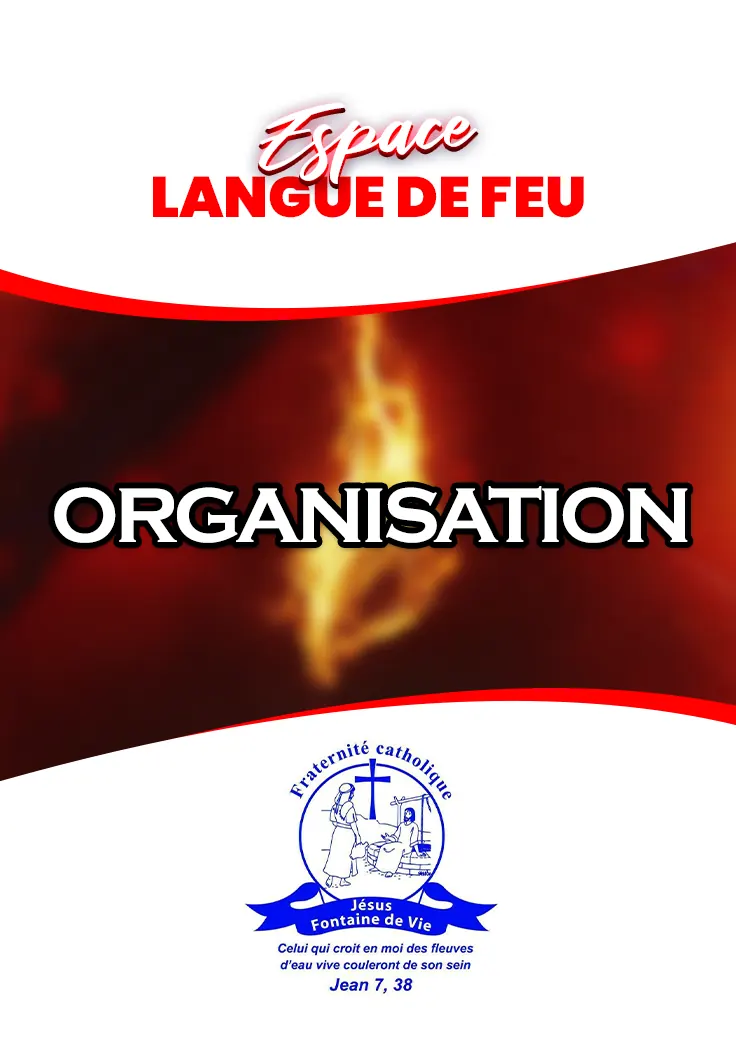
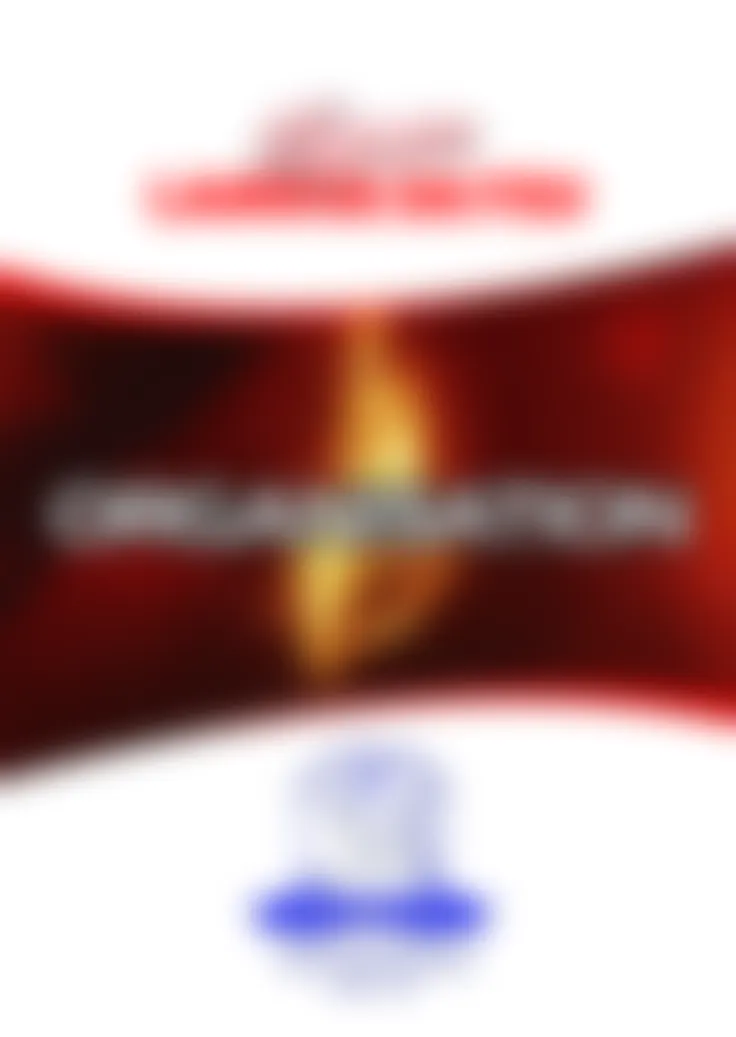
Galerie graphisme entièrement floutée, captures des projets web
- Floute l'intégralité des 15 visuels de la galerie Identité visuelle
- Ajoute les captures de Jisproject, TOPTEO Relay et Farmaceo dans
  leurs cartes projet (nom d'utilisateur flouté sur Farmaceo)
- Visionneuse en délégation d'événements pour les cartes générées en JS

Changed region(s): [[0.0, 0.0926, 1.0, 0.9566]]

diff --git a/index.html b/index.html
@@ -752,6 +752,18 @@
       transform: translateY(-2px)
     }
 
+    .proj-shot {
+      aspect-ratio: 16/9;
+      border-radius: 12px;
+      margin: -8px -8px 2px;
+      width: calc(100% + 16px);
+      border: 1px solid var(--line)
+    }
+
+    .proj-shot img {
+      object-position: 50% 0
+    }
+
     .proj-top {
       display: flex;
       justify-content: space-between;
@@ -2130,7 +2142,7 @@
         <button class="shot" type="button" data-lb="gfx" data-src="img/graphisme/langue-de-feu-organisation.webp" data-cap="Espace Langue de Feu · panneau Organisation"><img
             src="img/graphisme/langue-de-feu-organisation-min.webp" alt="Panneau Organisation de l'Espace Langue de Feu" loading="lazy"></button>
       </div>
-      <p class="gfx-note">Coordonnées et noms de personnes floutés par confidentialité.</p>
+      <p class="gfx-note">Visuels floutés par confidentialité : aperçu de la mise en page et des couleurs.</p>
     </div>
   </section>
 
@@ -2485,11 +2497,11 @@
       // Lightbox
       var lb = document.getElementById('lb'), lbImg = document.getElementById('lbImg'), lbCap = document.getElementById('lbCap'), group = [], idx = 0, opener = null;
       function show() { var b = group[idx]; lbImg.src = b.getAttribute('data-src'); lbImg.alt = b.querySelector('img').alt; lbCap.textContent = b.getAttribute('data-cap') + '  ·  ' + (idx + 1) + ' / ' + group.length; }
-      document.querySelectorAll('[data-lb]').forEach(function (b) {
-        b.addEventListener('click', function () { opener = b; group = [].slice.call(document.querySelectorAll('[data-lb="' + b.getAttribute('data-lb') + '"]')); idx = group.indexOf(b); show(); lb.hidden = false; document.getElementById('lbX').focus(); });
+      document.addEventListener('click', function (e) {
+        var b = e.target.closest('[data-lb]'); if (!b) return;
+        opener = b; group = [].slice.call(document.querySelectorAll('[data-lb="' + b.getAttribute('data-lb') + '"]')); idx = group.indexOf(b); show(); lb.hidden = false; document.body.style.overflow = 'hidden'; document.getElementById('lbX').focus();
       });
       function close() { lb.hidden = true; document.body.style.overflow = ''; if (opener) opener.focus(); }
-      document.querySelectorAll('[data-lb]').forEach(function (b) { b.addEventListener('click', function () { document.body.style.overflow = 'hidden'; }); });
       // Swipe between photos on touch screens
       var tx = null;
       lb.addEventListener('touchstart', function (e) { tx = e.touches[0].clientX; }, { passive: true });
@@ -2528,14 +2540,14 @@
 
       // Projects
       var projects = [
+        { n: 'Jisproject', c: 'Gestion', d: 'Plateforme de gestion de projet sur mesure : planification, suivi et pilotage jusqu\'à la livraison.', t: ['PHP', 'MySQL', 'AJAX'], o: 'TEO Group', img: 'jisproject', cap: 'Jisproject · vue Gantt de l\'activité', capEN: 'Jisproject · activity Gantt view' },
+        { n: 'TOPTEO Relay', c: 'Logistique', d: 'Site d\'expédition de colis de la France vers l\'Afrique francophone, avec suivi et traçabilité.', t: ['PHP', 'JavaScript', 'SQL'], o: 'TEO Group', img: 'topteo-relay', cap: 'TOPTEO Relay · formulaire d\'envoi de colis', capEN: 'TOPTEO Relay · parcel shipping form' },
+        { n: 'Farmaceo', c: 'Santé', d: 'Site conforme aux normes ANSM pour la gestion du stockage de produits pharmaceutiques, sur mobile, tablette et PC.', t: ['PHP', 'Responsive', 'SQL'], o: 'TEO Group', img: 'farmaceo', cap: 'Farmaceo · espace de gestion', capEN: 'Farmaceo · management area' },
         { n: 'WebCRM', c: 'Gestion', d: 'CRM pour suivre prospects et clients, avec un parcours de conversion du prospect au client.', t: ['PHP', 'SQL', 'JavaScript'], o: 'TEO Group' },
-        { n: 'Jisproject', c: 'Gestion', d: 'Plateforme de gestion de projet sur mesure : planification, suivi et pilotage jusqu\'à la livraison.', t: ['PHP', 'MySQL', 'AJAX'], o: 'TEO Group' },
         { n: 'Support · Ticket Dev', c: 'Outils internes', d: 'Gestion des demandes utilisateurs avec classement par urgence et catégorie, suivi et validation par superviseurs.', t: ['PHP', 'SQL', 'JavaScript'], o: 'TEO Group' },
         { n: 'Recrute RH (TLMS)', c: 'Outils internes', d: 'Application interne de recrutement : offres d\'emploi, candidatures et sélection des profils.', t: ['PHP', 'MySQL'], o: 'TRANSPORTEO International' },
         { n: 'AdminMailer', c: 'Outils internes', d: 'Administration multilingue et multi-utilisateurs des comptes e-mail d\'un serveur Linux.', t: ['PHP', 'Linux', 'SQL'], o: 'TEO Group' },
-        { n: 'TOPTEO Relay', c: 'Logistique', d: 'Site d\'expédition de colis de la France vers l\'Afrique francophone, avec suivi et traçabilité.', t: ['PHP', 'JavaScript', 'SQL'], o: 'TEO Group' },
         { n: 'Brode Services', c: 'Logistique', d: 'Plateforme d\'externalisation d\'activités pour entreprises, avec une interface fluide et intuitive.', t: ['HTML/CSS', 'PHP', 'AJAX'], o: 'TEO Group' },
-        { n: 'Farmaceo', c: 'Santé', d: 'Site conforme aux normes ANSM pour la gestion du stockage de produits pharmaceutiques, sur mobile, tablette et PC.', t: ['PHP', 'Responsive', 'SQL'], o: 'TEO Group' },
         { n: 'Biostorage', c: 'Santé', d: 'Stockage biologique sécurisé et traçable, avec vidéosurveillance et contrôle d\'accès biométrique.', t: ['PHP', 'Sécurité', 'SQL'], o: 'TEO Group' },
         { n: 'GED & gestion de projet', c: 'Gestion', d: 'Projet de mémoire : gestion électronique des documents et collaboration autour des projets.', t: ['PHP', 'Python', 'Merise'], o: 'La Vedette Média' }
       ];
@@ -2567,7 +2579,8 @@
       function renderProjects() {
         pEl.innerHTML = projects.filter(function (p) { return active === 'Tous' || p.c === active }).map(function (p) {
           var en = lang === 'en' && projEN[p.n], name = en ? en[0] : p.n, desc = en ? en[1] : p.d;
-          return '<article class="proj"><div class="proj-top"><span class="cat">' + esc(tc(p.c)) + '</span><span>' + esc(p.o) + '</span></div><h3>' + esc(name) + '</h3><p>' + esc(desc) + '</p><div class="tags">' + p.t.map(function (t) { return '<span>' + esc(lang === 'en' && tagEN[t] || t) + '</span>' }).join('') + '</div></article>';
+          var shot = p.img ? '<button class="shot proj-shot" type="button" data-lb="web" data-src="img/projets/' + p.img + '.webp" data-cap="' + esc(lang === 'en' ? p.capEN : p.cap) + '"><img src="img/projets/' + p.img + '-min.webp" alt="' + esc((lang === 'en' ? 'Screenshot of ' : 'Capture d’écran de ') + name) + '" loading="lazy"></button>' : '';
+          return '<article class="proj' + (p.img ? ' has-shot' : '') + '">' + shot + '<div class="proj-top"><span class="cat">' + esc(tc(p.c)) + '</span><span>' + esc(p.o) + '</span></div><h3>' + esc(name) + '</h3><p>' + esc(desc) + '</p><div class="tags">' + p.t.map(function (t) { return '<span>' + esc(lang === 'en' && tagEN[t] || t) + '</span>' }).join('') + '</div></article>';
         }).join('');
       }
       fEl.addEventListener('click', function (e) { var b = e.target.closest('.chip'); if (!b) return; active = b.getAttribute('data-c'); renderFilters(); renderProjects(); });
@@ -2699,7 +2712,7 @@
         'Ex. Aïcha Dossou': 'e.g. Aïcha Dossou', "Nom de l'entreprise": 'Company name',
         'Décrivez votre projet : objectif, fonctionnalités principales, site existant…': 'Describe your project: goal, main features, existing site…',
         'Au bureau, Cotonou': 'At the office, Cotonou', 'Soirée professionnelle': 'Professional evening', 'Séance de travail en équipe': 'Team working session',
-'Logos, affiches, bannières, signalétique et brochures, conçus sous Photoshop pour des associations, des paroisses et une agence de tourisme.': 'Logos, posters, banners, signage and brochures, designed in Photoshop for associations, parishes and a tourism agency.', 'Coordonnées et noms de personnes floutés par confidentialité.': 'Contact details and personal names blurred for confidentiality.',
+'Logos, affiches, bannières, signalétique et brochures, conçus sous Photoshop pour des associations, des paroisses et une agence de tourisme.': 'Logos, posters, banners, signage and brochures, designed in Photoshop for associations, parishes and a tourism agency.', 'Visuels floutés par confidentialité : aperçu de la mise en page et des couleurs.': 'Visuals blurred for confidentiality: a preview of layout and colours.',
         'Ouidah Héritage Tour · brochure, recto': 'Ouidah Heritage Tour · brochure, front',
         'Ouidah Héritage Tour · logo': 'Ouidah Heritage Tour · logo',
         'Ouidah Héritage Tour · brochure, verso': 'Ouidah Heritage Tour · brochure, back',
